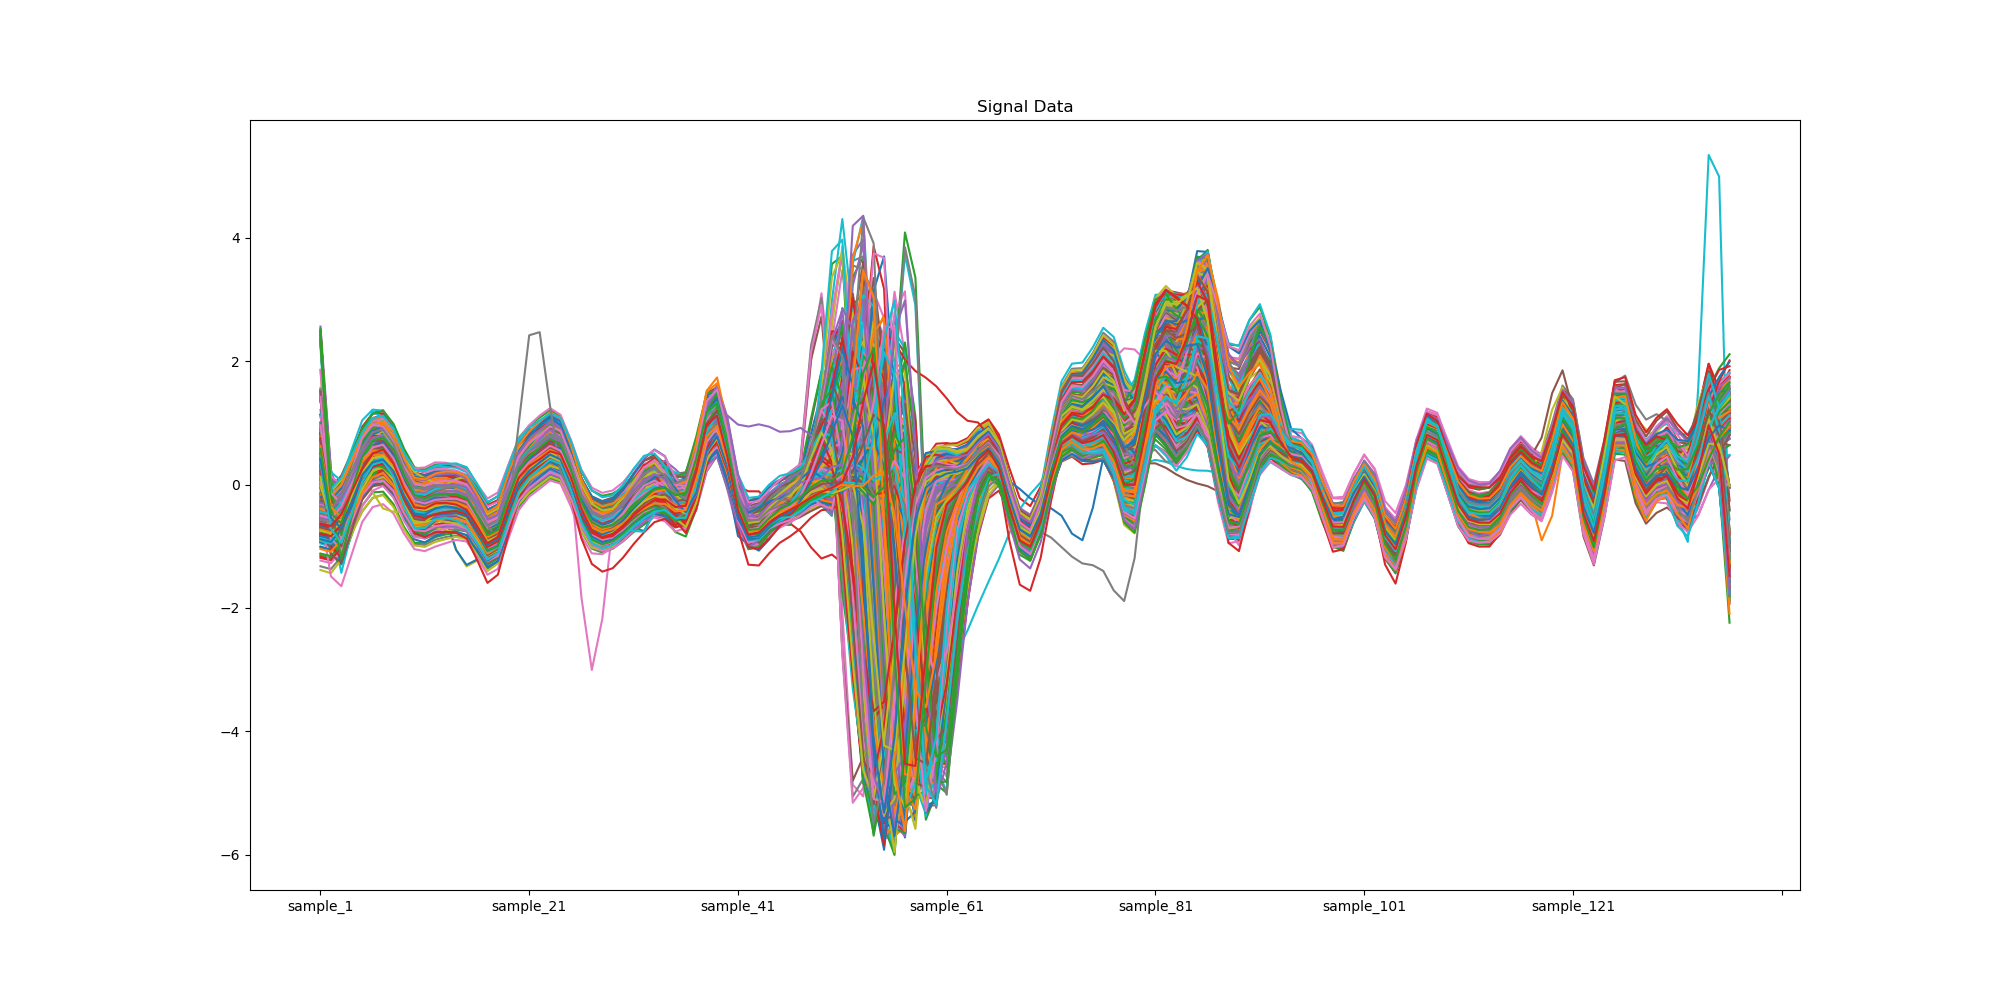
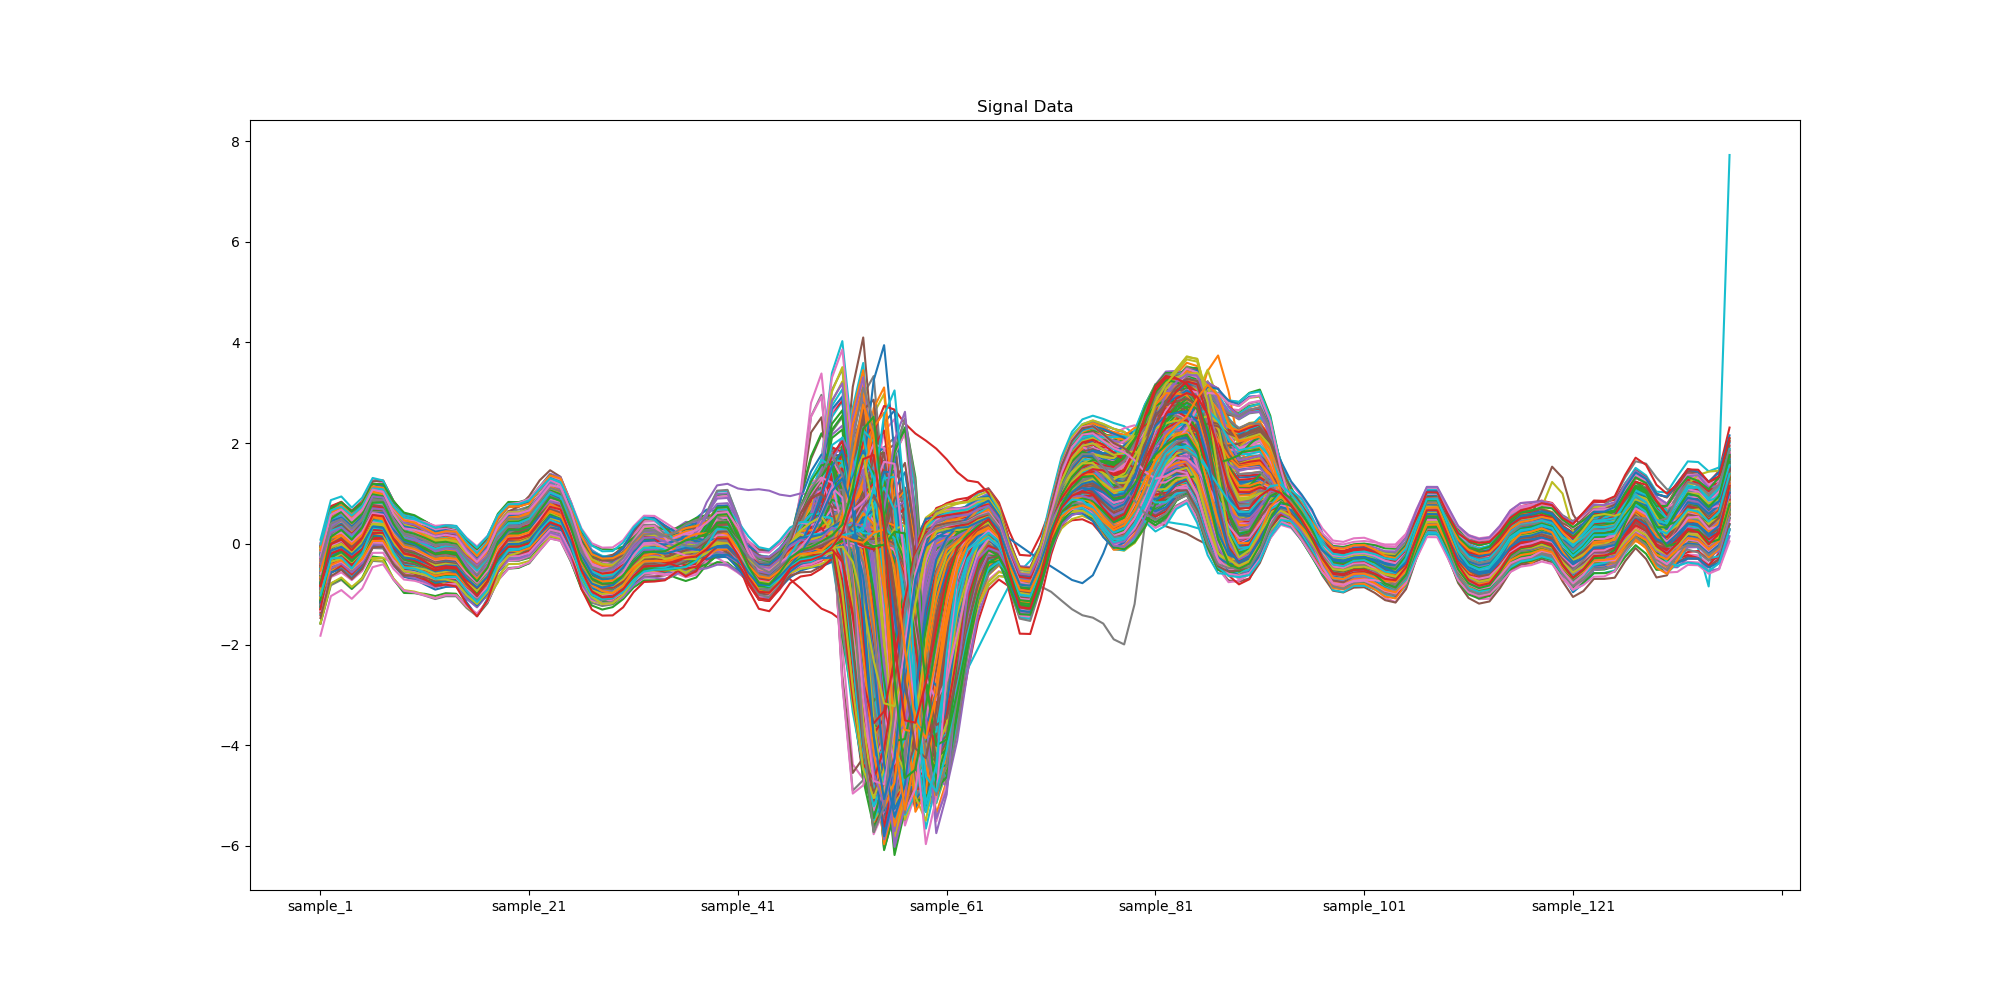
latest changes

Changed region(s): [[0.155, 0.217, 0.868, 0.868], [0.837, 0.155, 0.868, 0.31]]

diff --git a/dna_analysis.py b/dna_analysis.py
@@ -1,0 +1,61 @@
+import pandas as pd
+import numpy as np
+
+
+def gc_content(dna_sequence: str) -> float:
+    """
+    Function to calculate the GC content of a DNA sequence
+    :param dna_sequence:
+    :return: float
+    """
+    gc_count = dna_sequence.upper().count("G") + dna_sequence.upper().count("C")
+    gc_content = gc_count / len(dna_sequence)
+    return gc_content
+
+
+def reverse_complement(dna_sequence: str) -> str:
+    """
+    Function to generate the reverse complement of a DNA sequence
+    :param dna_sequence:
+    :return: str
+    """
+    complement_dict = {"A": "T", "T": "A", "C": "G", "G": "C"}
+    reverse_complement_seq = "".join([complement_dict[base] for base in dna_sequence[::-1]])
+    return reverse_complement_seq
+
+
+def introduce_error(dna_sequence: str, error_rate: float) -> str:
+    """
+    Function to introduce errors into a DNA sequence
+    :param dna_sequence:
+    :param error_rate:
+    :return: str
+    """
+    error_sequence = ""
+    for base in dna_sequence:
+        if np.random.uniform() < error_rate:
+            error_sequence += np.random.choice([x for x in "ATCG" if x != base])
+        else:
+            error_sequence += base
+    return error_sequence
+
+
+def generate_random_sequence(length: int) -> str:
+
+    """
+    Function to generate a random DNA sequence of a given length
+    :param length:
+    :return: str
+    """
+    return "".join(np.random.choice(list("ATCG"), length))
+
+
+def generate_random_sequences(num_sequences: int, min_length: int, max_length: int) -> list:
+    """
+    Function to generate a list of random DNA sequences
+    :param num_sequences:
+    :param min_length:
+    :param max_length:
+    :return: list
+    """
+    return [generate_random_sequence(np.random.randint(min_length, max_length)) for _ in range(num_sequences)]

diff --git a/process.py b/process.py
@@ -211,7 +211,7 @@ if __name__ == "__main__":
     data_cleaner = CleanData()
     print(f"Number of rows with missing or NAN values in the dataset are {raw_data_df.isnull().sum().sum()}")
     data_df = data_cleaner.interpolate_missing_values(raw_data_df)
-    data_df = data_cleaner.remove_outliers(data_df)
+    data_df = data_cleaner.apply_median_filter(data_df, 5)
 
     # Signal processing
     data_normaliser = SignalProcessing()
